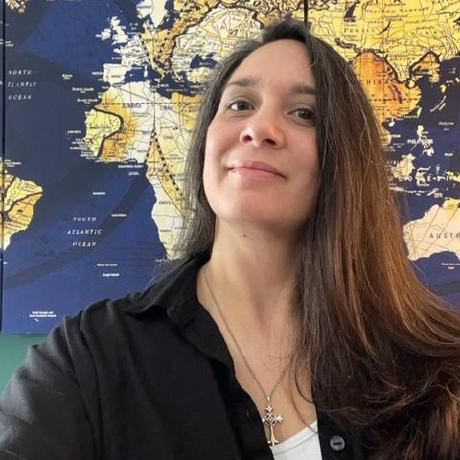
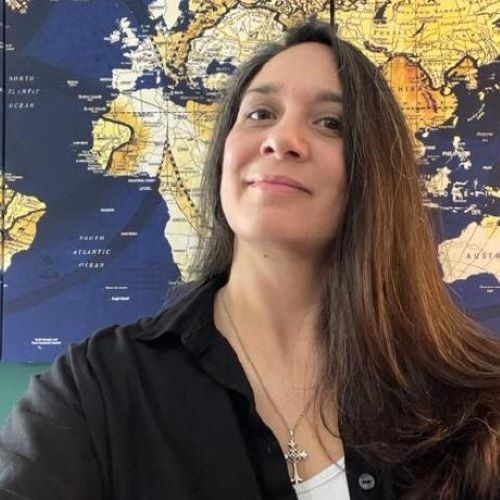
added carousel with temp images

diff --git a/src/components/Throwdown.jsx b/src/components/Throwdown.jsx
@@ -8,7 +8,10 @@ import Kate from "../assets/Kate.jpg";
 
 const Throwdown = () => {
   return (
-    <section name="throwdown" className="w-full h-auto">
+    <section name="throwdown" className="w-full h-auto bg-orange-300">
+      <h2 className="font-bold text-4xl text-emerald-500 text-center">
+        Behold the Spinning Glory!!
+      </h2>
       {/* Carousel */}
       <div className="carousel-wrapper">
         <Carousel

diff --git a/src/components/Home.jsx b/src/components/Home.jsx
@@ -3,7 +3,7 @@ import React from "react";
 
 const Home = () => {
   return (
-    <section name="home" className="w-full h-auto">
+    <section name="home" className="w-full h-auto bg-violet-400">
       <div className="p-4 h-screen">
         <h1 className="text-7xl font-bold text-indigo-800">Hello, Bridgett.</h1>
         <h2 className="text-5xl font-bold text-indigo-800">This is a test.</h2>

diff --git a/src/App.js b/src/App.js
@@ -5,12 +5,14 @@ import "./index.css";
 //import components
 import Home from "./components/Home";
 import Navbar from "./components/Navbar";
+import Throwdown from "./components/Throwdown";
 
 function App() {
   return (
     <div>
       <Navbar />
       <Home />
+      <Throwdown />
     </div>
   );
 }

diff --git a/src/components/Navbar.jsx b/src/components/Navbar.jsx
@@ -17,6 +17,11 @@ const Navbar = () => {
               Home
             </Link>
           </li>
+          <li>
+            <Link to="throwdown" smooth={true} duration={500}>
+              Throwdown
+            </Link>
+          </li>
         </ul>
 
         {/* Nav burger */}
